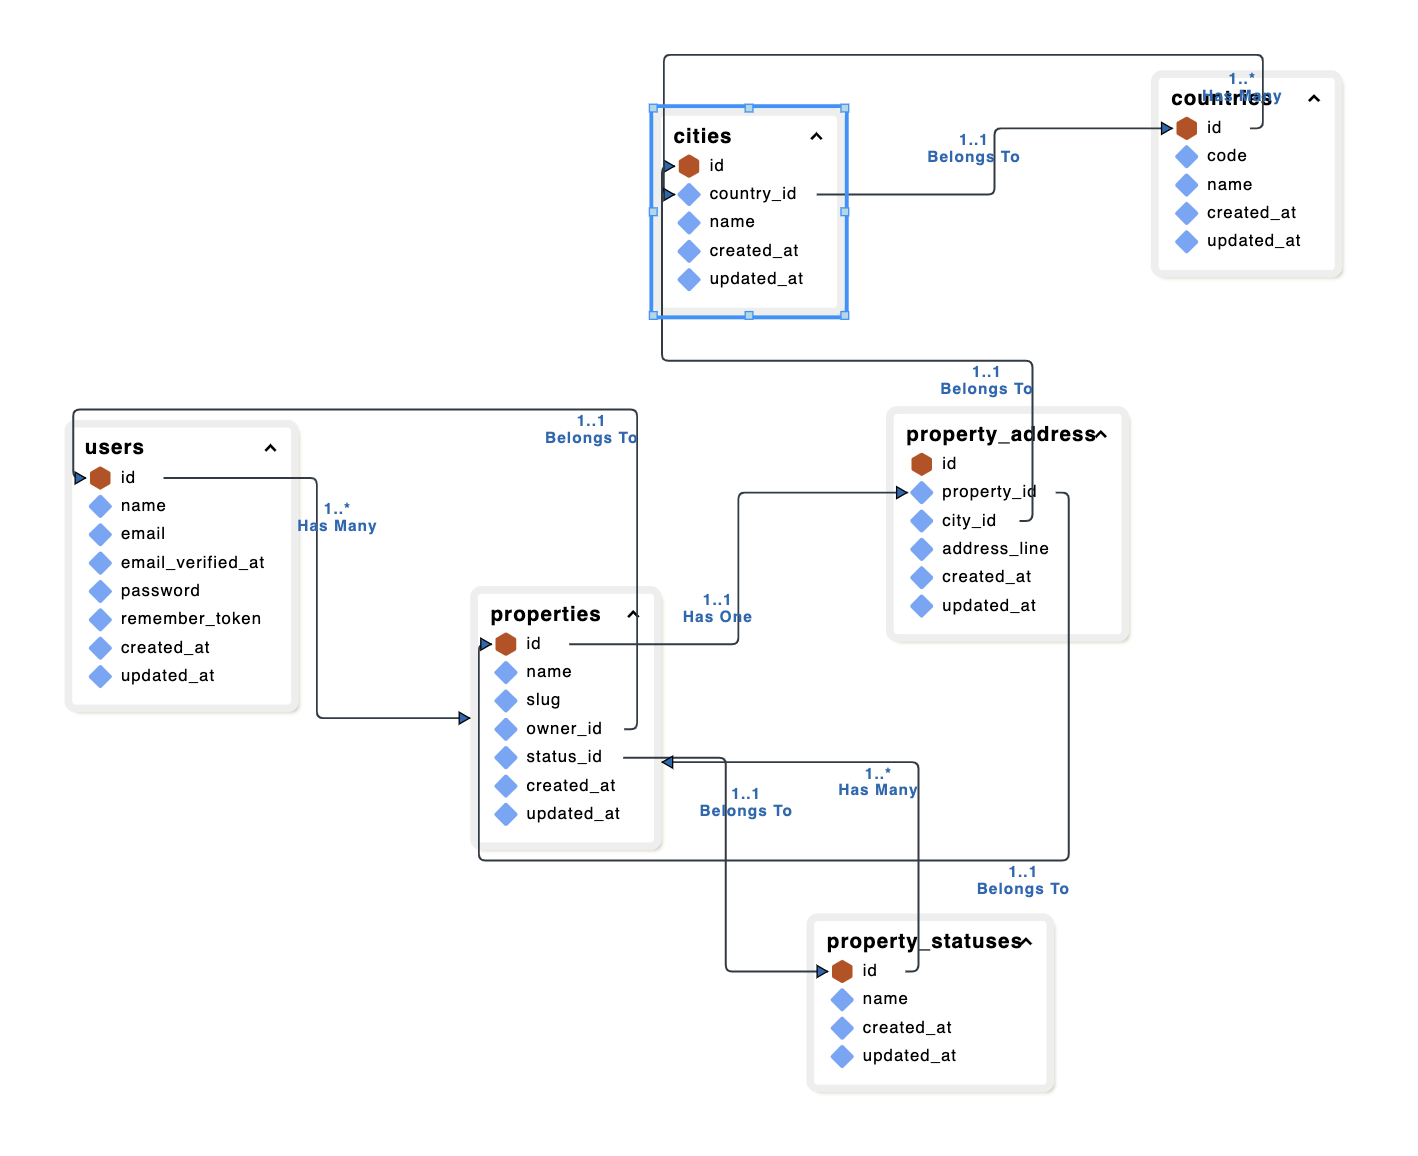
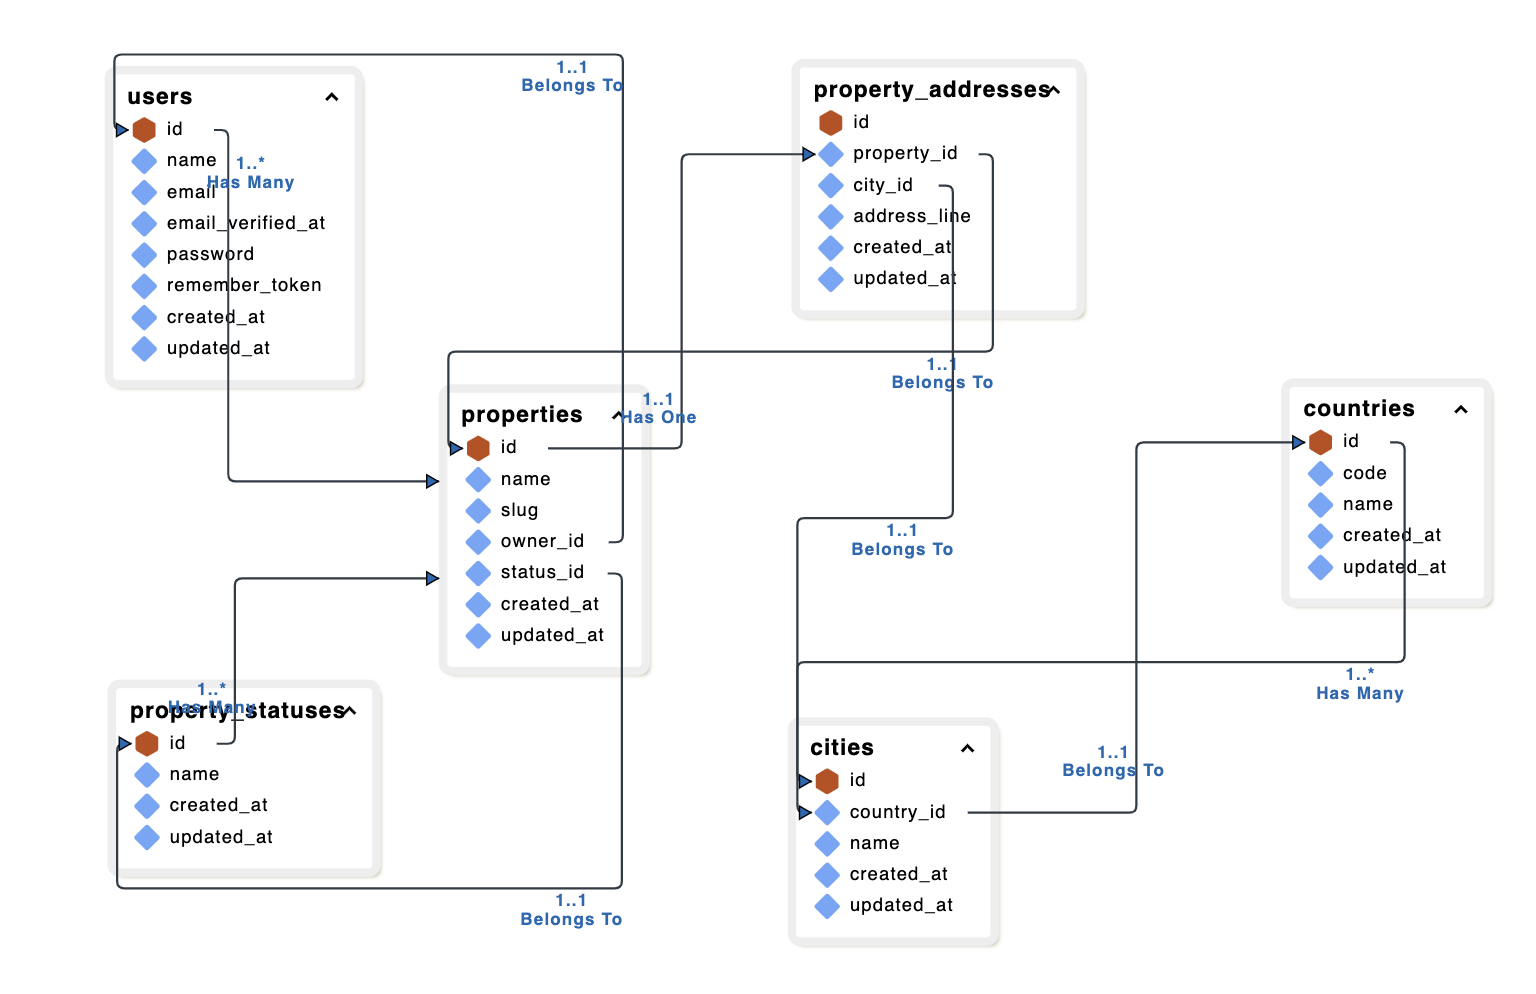
table name fix

diff --git a/database/migrations/2024_12_16_143342_create_property_address_table.php b/database/migrations/2024_12_16_143342_create_property_address_table.php
@@ -11,7 +11,7 @@ return new class extends Migration
      */
     public function up(): void
     {
-        Schema::create('property_address', function (Blueprint $table) {
+        Schema::create('property_addresses', function (Blueprint $table) {
             $table->id();
             $table->bigInteger('property_id')->unsigned()->unique();
             $table->bigInteger('city_id')->unsigned();
@@ -28,6 +28,6 @@ return new class extends Migration
      */
     public function down(): void
     {
-        Schema::dropIfExists('property_address');
+        Schema::dropIfExists('property_addresses');
     }
 };

diff --git a/app/Models/PropertyAddress.php b/app/Models/PropertyAddress.php
@@ -10,5 +10,5 @@ class PropertyAddress extends Model
 {
     use HasFactory, PropertyAddressRelationships;
     
-    protected $table = 'property_address';
+    protected $table = 'property_addresses';
 }
